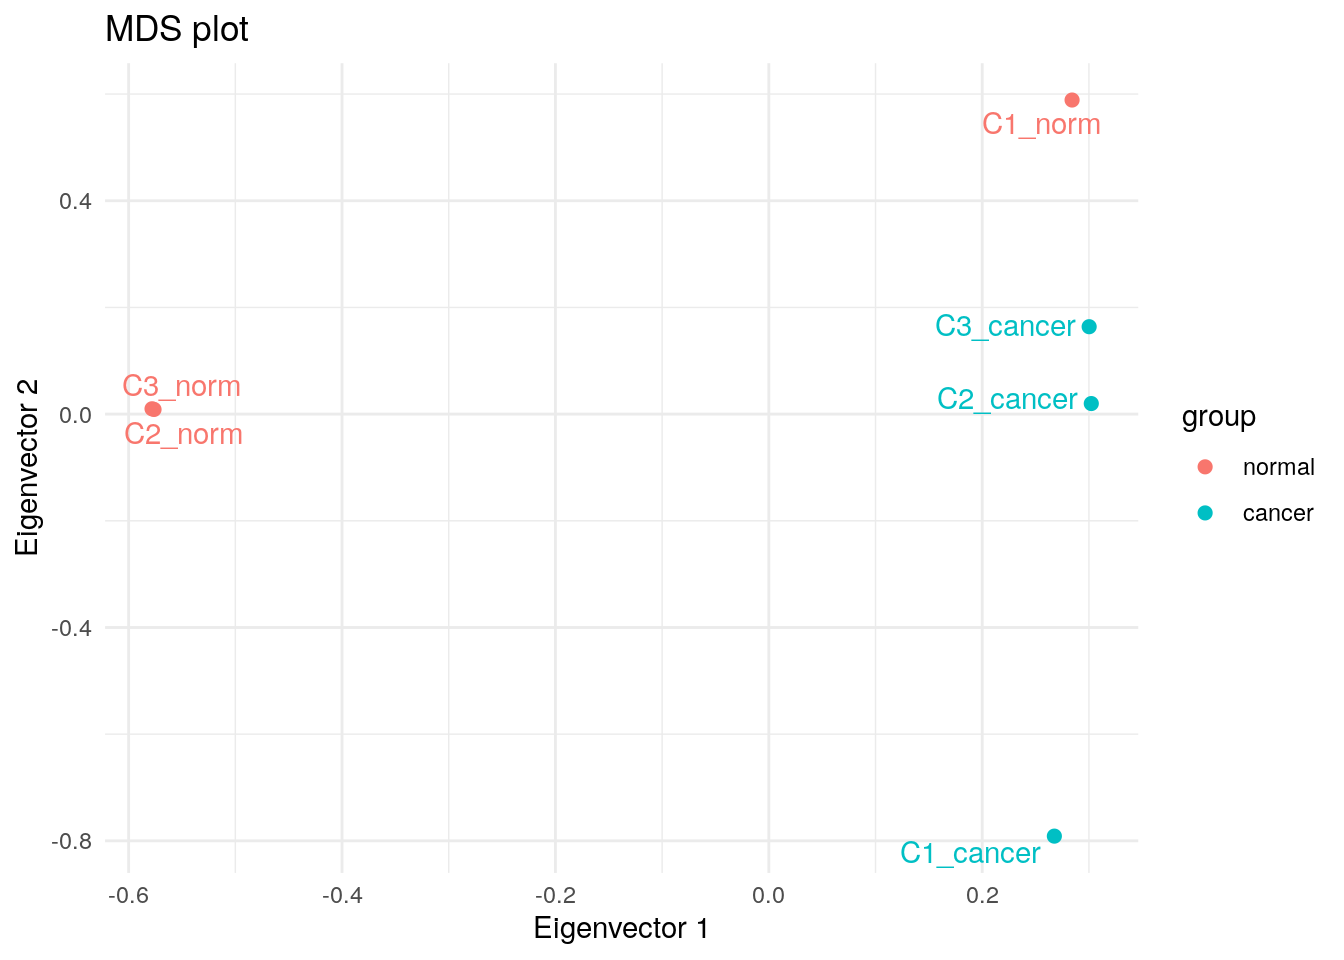
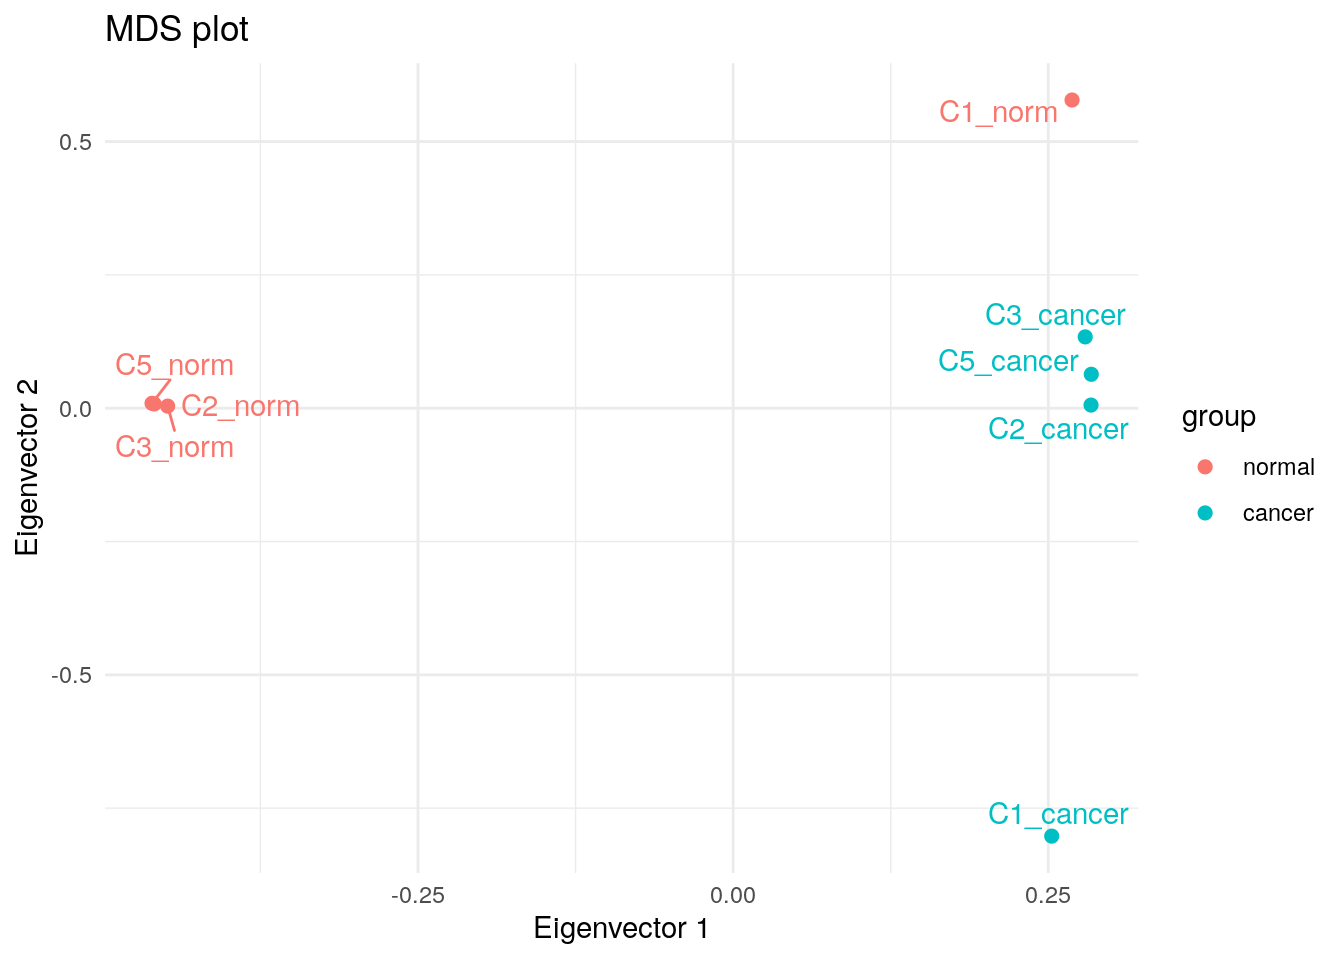
Build site.

diff --git a/docs/edger_de.html b/docs/edger_de.html
@@ -520,15 +520,15 @@ project makes it easier to run your code on other machines.</p>
 <div class="panel panel-default">
 <div class="panel-heading">
 <p class="panel-title">
-<a data-toggle="collapse" data-parent="#workflowr-checks" href="#strongRepositoryversionstrongahrefhttpsgithubcomdavetangmusetreef7369ced3bf60f895b1ed68e76165c2eb43a5c7etargetblankf7369cea">
+<a data-toggle="collapse" data-parent="#workflowr-checks" href="#strongRepositoryversionstrongahrefhttpsgithubcomdavetangmusetree3661a2e11475b2b827b70a86800c1e939966510dtargetblank3661a2ea">
 <span class="glyphicon glyphicon-ok text-success"
 aria-hidden="true"></span> <strong>Repository version:</strong>
-<a href="https://github.com/davetang/muse/tree/f7369ced3bf60f895b1ed68e76165c2eb43a5c7e" target="_blank">f7369ce</a>
+<a href="https://github.com/davetang/muse/tree/3661a2e11475b2b827b70a86800c1e939966510d" target="_blank">3661a2e</a>
 </a>
 </p>
 </div>
 <div
[2 lines of base64/hex data omitted]
 class="panel-collapse collapse">
 <div class="panel-body">
 <p>
@@ -538,7 +538,7 @@ reproducibility.
 </p>
 <p>
 The results in this page were generated with repository version
-<a href="https://github.com/davetang/muse/tree/f7369ced3bf60f895b1ed68e76165c2eb43a5c7e" target="_blank">f7369ce</a>.
+<a href="https://github.com/davetang/muse/tree/3661a2e11475b2b827b70a86800c1e939966510d" target="_blank">3661a2e</a>.
 See the <em>Past versions</em> tab to see a history of the changes made
 to the R Markdown and HTML files.
 </p>
@@ -611,6 +611,40 @@ Message
 Rmd
 </td>
 <td>
+<a href="https://github.com/davetang/muse/blob/3661a2e11475b2b827b70a86800c1e939966510d/analysis/edger_de.Rmd" target="_blank">3661a2e</a>
+</td>
+<td>
+Dave Tang
+</td>
+<td>
+2024-10-22
+</td>
+<td>
+Additional sample
+</td>
+</tr>
+<tr>
+<td>
+html
+</td>
+<td>
+<a href="https://rawcdn.githack.com/davetang/muse/c9037d1312e24959a4f379125e2f1732175787f0/docs/edger_de.html" target="_blank">c9037d1</a>
+</td>
+<td>
+Dave Tang
+</td>
+<td>
+2024-10-22
+</td>
+<td>
+Build site.
+</td>
+</tr>
+<tr>
+<td>
+Rmd
+</td>
+<td>
 <a href="https://github.com/davetang/muse/blob/f7369ced3bf60f895b1ed68e76165c2eb43a5c7e/analysis/edger_de.Rmd" target="_blank">f7369ce</a>
 </td>
 <td>
@@ -655,30 +689,33 @@ BiocManager::install(&quot;edgeR&quot;)</code></pre>
 </div>
 <div id="data" class="section level2">
 <h2>Data</h2>
-<p><a href="https://zenodo.org/records/13968456"
-class="uri">https://zenodo.org/records/13968456</a></p>
-<pre class="r"><code>download.file(url = &quot;https://zenodo.org/records/13968456/files/rsem.merged.gene_counts.tsv?download=1&quot;, destfile = &quot;rsem.merged.gene_counts.tsv&quot;)
+<p><a href="https://zenodo.org/records/13970886"
+class="uri">https://zenodo.org/records/13970886</a></p>
+<pre class="r"><code>my_url &lt;- &#39;https://zenodo.org/records/13970886/files/rsem.merged.gene_counts.tsv?download=1&#39;
+download.file(url = my_url, destfile = &quot;rsem.merged.gene_counts.tsv&quot;)
 gene_counts &lt;- read_tsv(&quot;rsem.merged.gene_counts.tsv&quot;, show_col_types = FALSE)
 head(gene_counts)</code></pre>
-<pre><code># A tibble: 6 × 8
-  gene_id   `transcript_id(s)` ERR160122 ERR160123 ERR164473 ERR164550 ERR164551
+<pre><code># A tibble: 6 × 10
+  gene_id   `transcript_id(s)` ERR160122 ERR160123 ERR160124 ERR164473 ERR164550
   &lt;chr&gt;     &lt;chr&gt;                  &lt;dbl&gt;     &lt;dbl&gt;     &lt;dbl&gt;     &lt;dbl&gt;     &lt;dbl&gt;
-1 ENSG0000… ENST00000373020,E…        2         6      374       1637       650 
-2 ENSG0000… ENST00000373031,E…       19        40        0          1         0 
-3 ENSG0000… ENST00000371582,E…      268.      274.     489        637       879 
-4 ENSG0000… ENST00000367770,E…      360.      449.     363.       606.      709.
-5 ENSG0000… ENST00000286031,E…      156.      185.      85.4      312.      239.
-6 ENSG0000… ENST00000374003,E…       24        23     1181        423      3346 
-# ℹ 1 more variable: ERR164552 &lt;dbl&gt;</code></pre>
+1 ENSG0000… ENST00000373020,E…        2         6         5      374       1637 
+2 ENSG0000… ENST00000373031,E…       19        40        28        0          1 
+3 ENSG0000… ENST00000371582,E…      268.      274.      429.     489        637 
+4 ENSG0000… ENST00000367770,E…      360.      449.      566.     363.       606.
+5 ENSG0000… ENST00000286031,E…      156.      185.      265.      85.4      312.
+6 ENSG0000… ENST00000374003,E…       24        23        40     1181        423 
+# ℹ 3 more variables: ERR164551 &lt;dbl&gt;, ERR164552 &lt;dbl&gt;, ERR164554 &lt;dbl&gt;</code></pre>
 <p>Metadata.</p>
 <pre class="r"><code>tibble::tribble(
   ~sample, ~run_id, ~group,
   &quot;C2_norm&quot;, &quot;ERR160122&quot;, &quot;normal&quot;,
   &quot;C3_norm&quot;, &quot;ERR160123&quot;, &quot;normal&quot;,
+  &quot;C5_norm&quot;, &quot;ERR160124&quot;, &quot;normal&quot;,
   &quot;C1_norm&quot;, &quot;ERR164473&quot;, &quot;normal&quot;,
   &quot;C1_cancer&quot;, &quot;ERR164550&quot;, &quot;cancer&quot;,
   &quot;C2_cancer&quot;, &quot;ERR164551&quot;, &quot;cancer&quot;,
-  &quot;C3_cancer&quot;, &quot;ERR164552&quot;, &quot;cancer&quot;
+  &quot;C3_cancer&quot;, &quot;ERR164552&quot;, &quot;cancer&quot;,
+  &quot;C5_cancer&quot;, &quot;ERR164554&quot;, &quot;cancer&quot;
 ) -&gt; my_metadata
 
 my_metadata$group &lt;- factor(my_metadata$group, levels = c(&#39;normal&#39;, &#39;cancer&#39;))</code></pre>
@@ -697,22 +734,30 @@ y &lt;- y[keep, , keep.lib.sizes=FALSE]
 y</code></pre>
 <pre><code>An object of class &quot;DGEList&quot;
 $counts
-                C2_norm C3_norm C1_norm C1_cancer C2_cancer C3_cancer
-ENSG00000000003       2       6     374      1637       650      1015
-ENSG00000000005      19      40       0         1         0         0
-ENSG00000000419     268     273     489       637       879      1157
-ENSG00000000457     360     449     362       605       708       632
-ENSG00000000460     155     184      85       312       239       147
-35001 more rows ...
+                C2_norm C3_norm C5_norm C1_norm C1_cancer C2_cancer C3_cancer
+ENSG00000000003       2       6       5     374      1637       650      1015
+ENSG00000000005      19      40      28       0         1         0         0
+ENSG00000000419     268     273     428     489       637       879      1157
+ENSG00000000457     360     449     566     362       605       708       632
+ENSG00000000460     155     184     264      85       312       239       147
+                C5_cancer
+ENSG00000000003       562
+ENSG00000000005         0
+ENSG00000000419       729
+ENSG00000000457       478
+ENSG00000000460       156
+37419 more rows ...
 
 $samples
            group lib.size norm.factors
-C2_norm   normal  4415649            1
-C3_norm   normal  5326875            1
-C1_norm   normal 15961581            1
-C1_cancer cancer 22314452            1
-C2_cancer cancer 29908600            1
-C3_cancer cancer 24872257            1</code></pre>
+C2_norm   normal  4431282            1
+C3_norm   normal  5337400            1
+C5_norm   normal  7594512            1
+C1_norm   normal 15964680            1
+C1_cancer cancer 22317658            1
+C2_cancer cancer 29912740            1
+C3_cancer cancer 24876336            1
+C5_cancer cancer 23693355            1</code></pre>
 </div>
 <div id="normalisation-for-composition-bias" class="section level2">
 <h2>Normalisation for composition bias</h2>
@@ -739,6 +784,43 @@ analyses</p>
   theme_minimal() +
   ggtitle(&quot;MDS plot&quot;)</code></pre>
 <p><img src="figure/edger_de.Rmd/mds-1.png" width="672" style="display: block; margin: auto;" /></p>
+<p>
+<button type="button" class="btn btn-default btn-xs btn-workflowr btn-workflowr-fig" data-toggle="collapse" data-target="#fig-mds-1">
+Past versions of mds-1.png
+</button>
+</p>
+<div id="fig-mds-1" class="collapse">
+<div class="table-responsive">
+<table class="table table-condensed table-hover">
+<thead>
+<tr>
+<th>
+Version
+</th>
+<th>
+Author
+</th>
+<th>
+Date
+</th>
+</tr>
+</thead>
+<tbody>
+<tr>
+<td>
+<a href="https://github.com/davetang/muse/blob/c9037d1312e24959a4f379125e2f1732175787f0/docs/figure/edger_de.Rmd/mds-1.png" target="_blank">c9037d1</a>
+</td>
+<td>
+Dave Tang
+</td>
+<td>
+2024-10-22
+</td>
+</tr>
+</tbody>
+</table>
+</div>
+</div>
 </div>
 <div id="differential-expression" class="section level2">
 <h2>Differential expression</h2>
@@ -748,17 +830,17 @@ fit &lt;- glmQLFit(y, design, robust=TRUE)
 res &lt;- glmQLFTest(fit)
 topTags(res)</code></pre>
 <pre><code>Coefficient:  y$samples$groupcancer 
-                    logFC   logCPM        F       PValue        FDR
-ENSG00000100985  5.970692 5.990789 73.55648 2.690923e-05 0.07372405
-ENSG00000289381 -7.325570 2.197344 47.78707 5.721670e-05 0.07372405
-ENSG00000070601 -9.280195 4.481223 41.00090 7.330913e-05 0.07372405
-ENSG00000198183  7.916863 5.844195 41.62005 7.841906e-05 0.07372405
-ENSG00000229894 -8.996482 4.718492 32.85812 1.377647e-04 0.07372405
-ENSG00000151834 -7.764571 3.500301 32.77897 1.391503e-04 0.07372405
-ENSG00000241351  5.176813 5.765535 46.46008 1.539133e-04 0.07372405
-ENSG00000204961 -9.182288 4.898420 31.83417 1.572426e-04 0.07372405
-ENSG00000185972 -6.786526 3.568939 34.93787 1.689653e-04 0.07372405
-ENSG00000145934 -8.497381 6.014324 38.79728 1.892544e-04 0.07372405</code></pre>
+                    logFC   logCPM         F       PValue         FDR
+ENSG00000289381 -7.412756 2.341373 127.60623 2.767866e-08 0.001035846
+ENSG00000151834 -8.027915 3.644102  64.37842 1.049799e-06 0.003612063
+ENSG00000250696 -8.602174 3.809297  63.66033 1.249401e-06 0.003612063
+ENSG00000229894 -9.123230 4.910552  60.16361 1.751012e-06 0.003612063
+ENSG00000100985  5.735426 5.769059  99.70828 2.012691e-06 0.003612063
+ENSG00000167910 -8.022082 3.453041  56.63286 2.199494e-06 0.003612063
+ENSG00000196778 -8.815389 4.237774  56.19864 2.296578e-06 0.003612063
+ENSG00000166091 -7.247200 2.881457  54.63510 2.658697e-06 0.003612063
+ENSG00000240890 -9.077199 4.702122  53.69560 3.074356e-06 0.003612063
+ENSG00000224781 -7.116543 2.556254  51.43346 3.645089e-06 0.003612063</code></pre>
 <br>
 <p>
 <button type="button" class="btn btn-default btn-workflowr btn-workflowr-sessioninfo" data-toggle="collapse" data-target="#workflowr-sessioninfo" style="display: block;">
